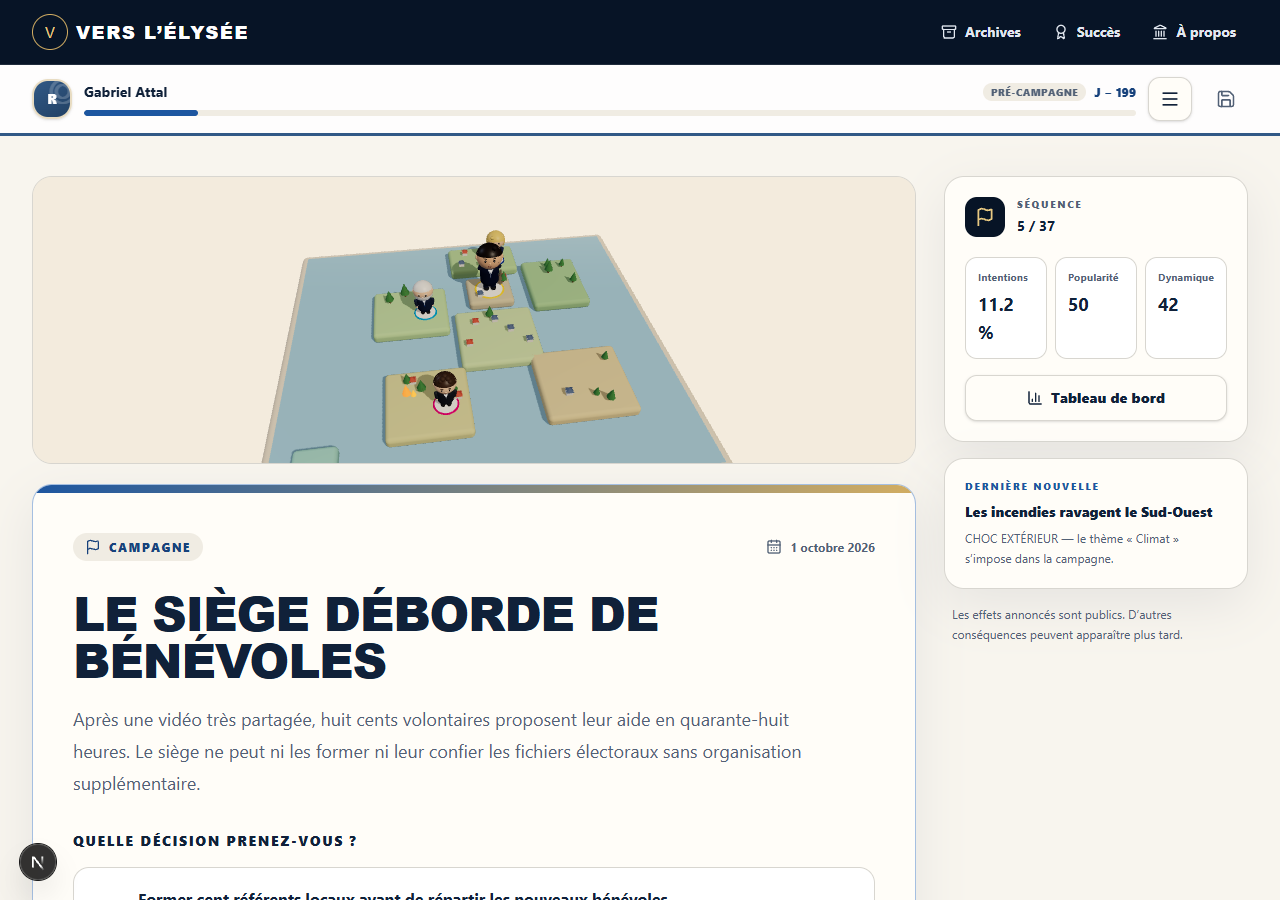
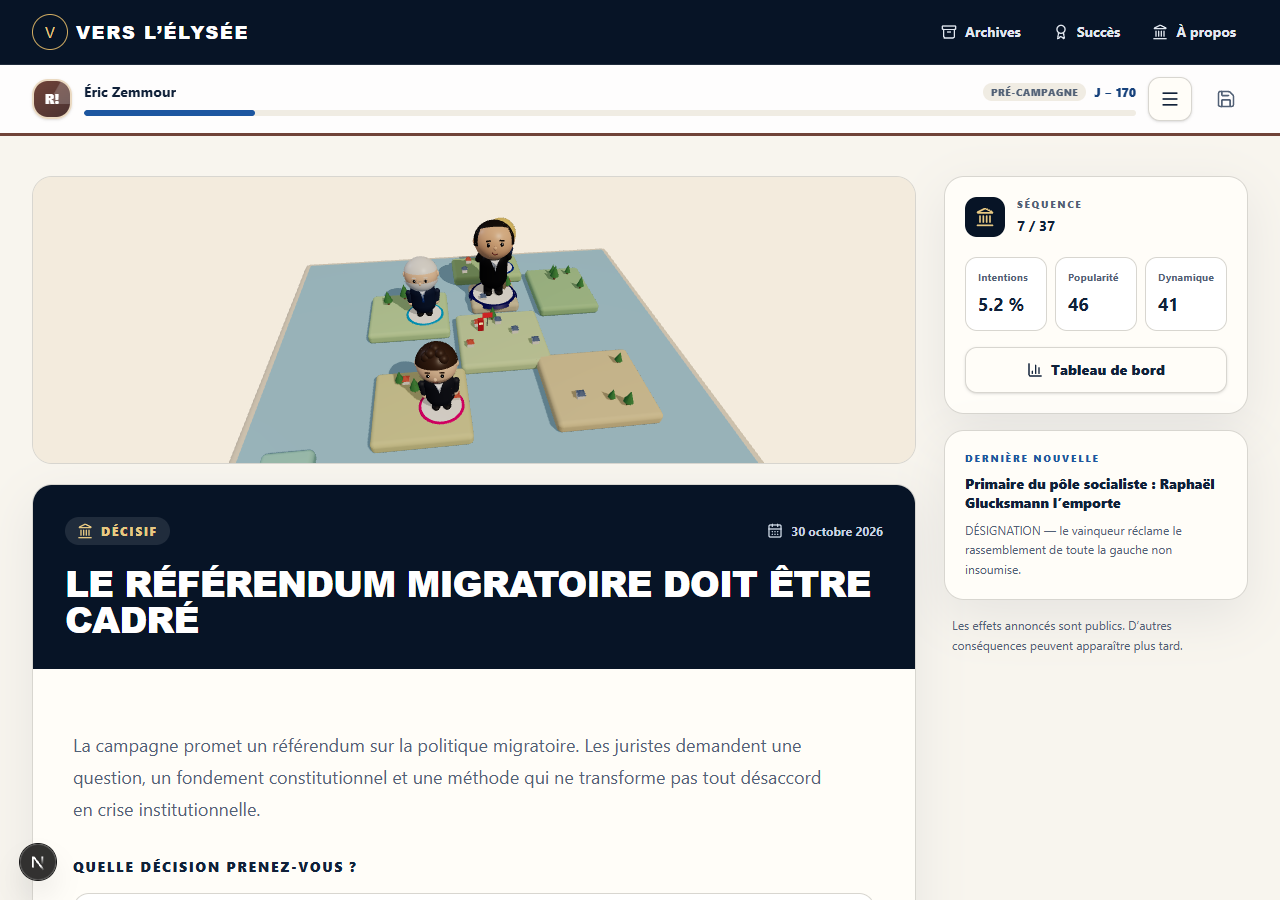
fix(3d): debate scene crashed the game (useFrame outside Canvas); isolate scenes in error boundaries
- debate pivot animation moved inside the Canvas
- each 3D stage wrapped in its own error boundary: a WebGL failure hides the scene, never the game
- reframed debate and Élysée cameras; /casting/decors showcase
- state validator no longer flags undefined finalists as identical
- satire wording in the footer notice

diff --git a/src/features/three/scenes/scenes.tsx b/src/features/three/scenes/scenes.tsx
@@ -110,6 +110,18 @@ function Lectern({ color, x }: { color: string; x: number }) {
   );
 }
 
+/** Pivot des candidats l'un vers l'autre, en alternance (doit vivre dans le Canvas). */
+function Facing({ side, children }: { side: "left" | "right"; children: React.ReactNode }) {
+  const ref = useRef<Group>(null);
+  useFrame((state) => {
+    if (!ref.current) return;
+    const speaker = Math.floor(state.clock.elapsedTime / 3) % 2;
+    ref.current.rotation.y =
+      side === "left" ? 0.45 + (speaker === 0 ? 0.15 : 0) : -0.45 - (speaker === 1 ? 0.15 : 0);
+  });
+  return <group ref={ref}>{children}</group>;
+}
+
 export function DebateScene({
   left,
   right,
@@ -120,30 +132,22 @@ export function DebateScene({
   label: string;
 }) {
   const still = usePrefersReducedMotion();
-  const speaker = useRef(0);
-  const leftRef = useRef<Group>(null);
-  const rightRef = useRef<Group>(null);
-  useFrame((state) => {
-    // Les candidats se tournent légèrement l'un vers l'autre en alternance.
-    speaker.current = Math.floor(state.clock.elapsedTime / 3) % 2;
-    if (leftRef.current) leftRef.current.rotation.y = 0.45 + (speaker.current === 0 ? 0.15 : 0);
-    if (rightRef.current) rightRef.current.rotation.y = -0.45 - (speaker.current === 1 ? 0.15 : 0);
-  });
   const leftSpeaks = !still;
   return (
     <StageCanvas
       label={label}
       className="h-full w-full"
-      camera={{ position: [0, 2.2, 6], fov: 30 }}
+      camera={{ position: [0, 1.6, 7], fov: 32 }}
+      shadowY={-1.05}
       shadowScale={10}
     >
       <color attach="background" args={["#0e1630"]} />
       {/* Plateau : sol, écran de fond et anneau lumineux */}
-      <mesh rotation={[-Math.PI / 2, 0, 0]} receiveShadow>
+      <mesh rotation={[-Math.PI / 2, 0, 0]} position={[0, -1.05, 0]} receiveShadow>
         <circleGeometry args={[4, 48]} />
         <meshStandardMaterial color="#1c2a52" roughness={0.3} metalness={0.2} />
       </mesh>
-      <mesh rotation={[-Math.PI / 2, 0, 0]} position={[0, 0.01, 0]}>
+      <mesh rotation={[-Math.PI / 2, 0, 0]} position={[0, -1.04, 0]}>
         <ringGeometry args={[2.4, 2.5, 64]} />
         <meshStandardMaterial color="#4c83cb" emissive="#4c83cb" emissiveIntensity={0.8} />
       </mesh>
@@ -152,14 +156,20 @@ export function DebateScene({
         <meshStandardMaterial color="#20366e" emissive="#162a5a" emissiveIntensity={0.5} />
       </mesh>
       <pointLight position={[0, 3, 2]} intensity={6} color="#9cc0ff" />
-      <group ref={leftRef} position={[-1.3, 0, 0]}>
-        <Figurine spec={left} pose={leftSpeaks ? "speak" : "idle"} still={still} />
+      <group position={[0, -1.05, 0]}>
+        <group position={[-1.3, 0, 0]}>
+          <Facing side="left">
+            <Figurine spec={left} pose={leftSpeaks ? "speak" : "idle"} still={still} />
+          </Facing>
+        </group>
+        <group position={[1.3, 0, 0]}>
+          <Facing side="right">
+            <Figurine spec={right} pose="idle" phase={1.5} still={still} />
+          </Facing>
+        </group>
+        <Lectern color={left.accent} x={-1.3} />
+        <Lectern color={right.accent} x={1.3} />
       </group>
-      <group ref={rightRef} position={[1.3, 0, 0]}>
-        <Figurine spec={right} pose="idle" phase={1.5} still={still} />
-      </group>
-      <Lectern color={left.accent} x={-1.3} />
-      <Lectern color={right.accent} x={1.3} />
     </StageCanvas>
   );
 }
@@ -242,61 +252,64 @@ export function ElyseeScene({
     <StageCanvas
       label={label}
       className="h-full w-full"
-      camera={{ position: [0, 1.9, 6.8], fov: 32 }}
+      camera={{ position: [0, 1.4, 8.2], fov: 34 }}
+      shadowY={-1.1}
       shadowScale={12}
     >
       <color attach="background" args={[won ? "#f6efe2" : "#dfe3ea"]} />
-      {/* Cour pavée */}
-      <mesh rotation={[-Math.PI / 2, 0, 0]} receiveShadow>
-        <planeGeometry args={[14, 10]} />
-        <meshStandardMaterial color="#d8cdb9" roughness={0.9} />
-      </mesh>
-      {/* Tapis rouge */}
-      <mesh rotation={[-Math.PI / 2, 0, 0]} position={[0, 0.005, 0.8]}>
-        <planeGeometry args={[1, 4]} />
-        <meshStandardMaterial color="#9b1b1f" roughness={0.8} />
-      </mesh>
-      {/* Façade stylisée */}
-      <group position={[0, 0, -1.8]}>
-        <RoundedBox
-          args={[7, 2.4, 0.8]}
-          radius={0.04}
-          position={[0, 1.2, 0]}
-          castShadow
-          receiveShadow
-        >
-          <meshStandardMaterial color="#efe8da" roughness={0.7} />
-        </RoundedBox>
-        <mesh position={[0, 2.55, 0]} castShadow>
-          <boxGeometry args={[7.3, 0.3, 1]} />
-          <meshStandardMaterial color="#6f7d8f" roughness={0.6} />
+      <group position={[0, -1.1, 0]}>
+        {/* Cour pavée */}
+        <mesh rotation={[-Math.PI / 2, 0, 0]} receiveShadow>
+          <planeGeometry args={[14, 10]} />
+          <meshStandardMaterial color="#d8cdb9" roughness={0.9} />
         </mesh>
-        {[-1.2, -0.4, 0.4, 1.2].map((x) => (
-          <mesh key={x} position={[x, 1, 0.5]} castShadow>
-            <cylinderGeometry args={[0.1, 0.12, 2, 14]} />
-            <meshStandardMaterial color="#f7f3ea" roughness={0.5} />
-          </mesh>
-        ))}
-        {[-3, -2.2, 2.2, 3].map((x) => (
-          <mesh key={x} position={[x, 1.25, 0.41]}>
-            <planeGeometry args={[0.45, 0.8]} />
-            <meshStandardMaterial color="#5a6b82" roughness={0.3} />
-          </mesh>
-        ))}
-        {/* Drapeau */}
-        <mesh position={[0, 3.2, 0]}>
-          <cylinderGeometry args={[0.02, 0.02, 1.1, 8]} />
-          <meshStandardMaterial color="#888" />
+        {/* Tapis rouge */}
+        <mesh rotation={[-Math.PI / 2, 0, 0]} position={[0, 0.005, 0.8]}>
+          <planeGeometry args={[1, 4]} />
+          <meshStandardMaterial color="#9b1b1f" roughness={0.8} />
         </mesh>
-        {["#0055a4", "#ffffff", "#ef4135"].map((color, i) => (
-          <mesh key={color} position={[0.12 + i * 0.16, 3.55, 0]}>
-            <boxGeometry args={[0.16, 0.32, 0.01]} />
-            <meshStandardMaterial color={color} />
+        {/* Façade stylisée */}
+        <group position={[0, 0, -1.8]}>
+          <RoundedBox
+            args={[7, 2.4, 0.8]}
+            radius={0.04}
+            position={[0, 1.2, 0]}
+            castShadow
+            receiveShadow
+          >
+            <meshStandardMaterial color="#efe8da" roughness={0.7} />
+          </RoundedBox>
+          <mesh position={[0, 2.55, 0]} castShadow>
+            <boxGeometry args={[7.3, 0.3, 1]} />
+            <meshStandardMaterial color="#6f7d8f" roughness={0.6} />
           </mesh>
-        ))}
-      </group>
-      <group position={[0, 0, 1.2]}>
-        <Figurine spec={player} pose={won ? "wave" : "slump"} still={still} />
+          {[-1.2, -0.4, 0.4, 1.2].map((x) => (
+            <mesh key={x} position={[x, 1, 0.5]} castShadow>
+              <cylinderGeometry args={[0.1, 0.12, 2, 14]} />
+              <meshStandardMaterial color="#f7f3ea" roughness={0.5} />
+            </mesh>
+          ))}
+          {[-3, -2.2, 2.2, 3].map((x) => (
+            <mesh key={x} position={[x, 1.25, 0.41]}>
+              <planeGeometry args={[0.45, 0.8]} />
+              <meshStandardMaterial color="#5a6b82" roughness={0.3} />
+            </mesh>
+          ))}
+          {/* Drapeau */}
+          <mesh position={[0, 3.2, 0]}>
+            <cylinderGeometry args={[0.02, 0.02, 1.1, 8]} />
+            <meshStandardMaterial color="#888" />
+          </mesh>
+          {["#0055a4", "#ffffff", "#ef4135"].map((color, i) => (
+            <mesh key={color} position={[0.12 + i * 0.16, 3.55, 0]}>
+              <boxGeometry args={[0.16, 0.32, 0.01]} />
+              <meshStandardMaterial color={color} />
+            </mesh>
+          ))}
+        </group>
+        <group position={[0, 0, 1.2]}>
+          <Figurine spec={player} pose={won ? "wave" : "slump"} still={still} />
+        </group>
       </group>
     </StageCanvas>
   );

diff --git a/src/features/three/stage-3d.tsx b/src/features/three/stage-3d.tsx
@@ -1,7 +1,7 @@
 "use client";
 
 import dynamic from "next/dynamic";
-import { type ComponentProps, type ReactNode, useSyncExternalStore } from "react";
+import { Component, type ComponentProps, type ReactNode, useSyncExternalStore } from "react";
 
 /**
  * Points d'entrée 3D chargés à la demande (client uniquement). Chaque scène est
@@ -36,10 +36,31 @@ function useEnabled() {
   );
 }
 
+/**
+ * Une scène 3D ne doit jamais faire tomber la partie : toute erreur (WebGL indisponible,
+ * contexte perdu, modèle illisible) masque simplement la scène.
+ */
+class SceneBoundary extends Component<{ children: ReactNode }, { failed: boolean }> {
+  override state = { failed: false };
+  static getDerivedStateFromError() {
+    return { failed: true };
+  }
+  override componentDidCatch(error: unknown) {
+    console.warn("Scène 3D désactivée après une erreur :", error);
+  }
+  override render() {
+    return this.state.failed ? null : this.props.children;
+  }
+}
+
 function Frame({ className, children }: { className: string; children: ReactNode }) {
   const enabled = useEnabled();
   if (!enabled) return null;
-  return <div className={className}>{children}</div>;
+  return (
+    <SceneBoundary>
+      <div className={className}>{children}</div>
+    </SceneBoundary>
+  );
 }
 
 export function CampaignStage3D(props: ComponentProps<typeof CampaignStageLazy>) {

diff --git a/src/features/three/decors-showcase.tsx b/src/features/three/decors-showcase.tsx
@@ -1,0 +1,31 @@
+"use client";
+
+import { figurineSpecs } from "./figurines/specs";
+import { DebateScene, ElyseeScene, PodiumScene } from "./scenes/scenes";
+
+/** Vitrine des décors 3D avec des données d'exemple (aucun état de partie). */
+export default function DecorsShowcase() {
+  const s = figurineSpecs;
+  return (
+    <div className="grid gap-6">
+      <div className="h-80 overflow-hidden rounded-2xl">
+        <DebateScene left={s.glucksmann!} right={s.le_pen!} label="Exemple de débat télévisé" />
+      </div>
+      <div className="h-80 overflow-hidden rounded-2xl">
+        <PodiumScene
+          playerId="ps"
+          label="Exemple de podium de soirée électorale"
+          entries={[
+            { partyId: "rn", score: 31.2, spec: s.le_pen! },
+            { partyId: "ps", score: 19.4, spec: s.glucksmann! },
+            { partyId: "horizons", score: 14.1, spec: s.philippe! },
+            { partyId: "lfi", score: 12.8, spec: s.melenchon! },
+          ]}
+        />
+      </div>
+      <div className="h-80 overflow-hidden rounded-2xl">
+        <ElyseeScene player={s.philippe!} won label="Exemple d’arrivée à l’Élysée" />
+      </div>
+    </div>
+  );
+}

diff --git a/src/game/data/__tests__/politicalConsistency.test.ts b/src/game/data/__tests__/politicalConsistency.test.ts
@@ -130,8 +130,7 @@ describe("Cohérence politique structurelle", () => {
       }
     }
     expect(checked).toBeGreaterThan(100);
-  }, // négociation stratégique ajoute un calcul de viabilité/fragmentation // PROMPT_CLAUDE_CODE_RECOMPOSITIONS_STRATEGIQUES_SOUTIENS_CHOCS.md — la
-  // réel par parti éligible et par décision ; ce test (60 campagnes de 80
+  }, // réel par parti éligible et par décision ; ce test (60 campagnes de 80 // négociation stratégique ajoute un calcul de viabilité/fragmentation // PROMPT_CLAUDE_CODE_RECOMPOSITIONS_STRATEGIQUES_SOUTIENS_CHOCS.md — la
   // décisions) reste sous 12 s isolé mais peut dépasser 20 s sous la
   // contention des autres fichiers de test exécutés en parallèle.
   40000);

diff --git a/src/config/branding.ts b/src/config/branding.ts
@@ -5,6 +5,6 @@ export const BRANDING = {
   description: "Une simulation narrative et stratégique de campagne présidentielle française.",
   fictionNotice:
     "Simulation politique fictive. Les événements, dialogues, probabilités, classements et résultats de ce jeu sont fictifs. Ils ne constituent ni une prédiction électorale, ni une information officielle, ni un soutien à un parti ou à une personnalité. Les paramètres de gameplay ne sont pas des mesures objectives de valeur politique.",
-  shortFictionNotice: "Simulation fictive, non officielle et sans valeur prédictive.",
+  shortFictionNotice: "Fiction satirique, non officielle et sans valeur prédictive.",
   version: "0.1.0",
 } as const;

diff --git a/src/app/casting/decors/page.tsx b/src/app/casting/decors/page.tsx
@@ -1,0 +1,20 @@
+import type { Metadata } from "next";
+
+import { DecorsLoader } from "@/features/three/casting-loader";
+
+export const metadata: Metadata = {
+  title: "Décors",
+  description: "Les décors 3D de la campagne : débat, soirée électorale, Élysée.",
+};
+
+export default function DecorsPage() {
+  return (
+    <article className="mx-auto max-w-5xl px-4 py-8 sm:px-6">
+      <h1 className="font-display text-4xl font-black uppercase">Les décors</h1>
+      <p className="mt-2 text-[var(--ink-muted)]">Débat télévisé, soirée électorale et Élysée.</p>
+      <div className="mt-6">
+        <DecorsLoader />
+      </div>
+    </article>
+  );
+}

diff --git a/src/features/three/casting-loader.tsx b/src/features/three/casting-loader.tsx
@@ -11,3 +11,8 @@ export const AiTrialLoader = dynamic(() => import("./ai-trial"), {
   ssr: false,
   loading: () => <div className="h-[50vh] w-full animate-pulse rounded-2xl bg-[#efe7da]" />,
 });
+
+export const DecorsLoader = dynamic(() => import("./decors-showcase"), {
+  ssr: false,
+  loading: () => <div className="h-80 w-full animate-pulse rounded-2xl bg-[#efe7da]" />,
+});

diff --git a/src/game/engine/validation.ts b/src/game/engine/validation.ts
@@ -81,7 +81,7 @@ export function validateGameState(state: GameState): StateValidationResult {
     }
   }
 
-  if (state.qualifiedPartyIds?.[0] === state.qualifiedPartyIds?.[1]) {
+  if (state.qualifiedPartyIds && state.qualifiedPartyIds[0] === state.qualifiedPartyIds[1]) {
     errors.push("finalistes identiques");
   }
   if (state.phase === "finished" && !state.finalResult)
